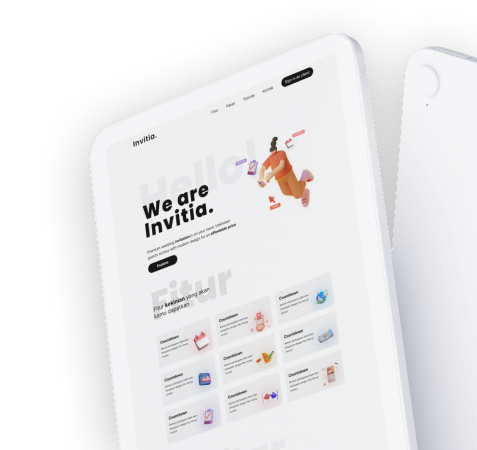
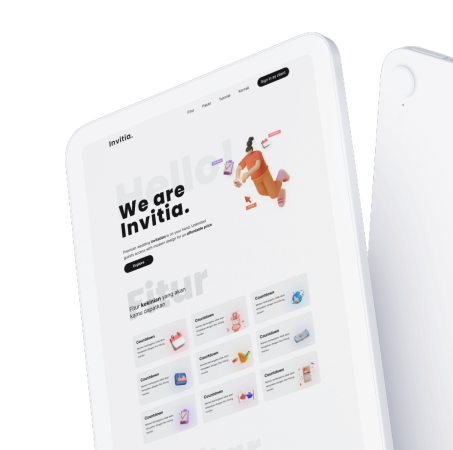
adjusting layouts

diff --git a/components/ui/CardProgress.js b/components/ui/CardProgress.js
@@ -17,14 +17,14 @@ const CardProgress = ({ item }) => {
       onMouseOver={onHoverHandler}
       onMouseLeave={onMouseLeaveHandler}
       className={`${
-        isHover ? "bg-orange-sol" : "bg-scnd-blue"
+        isHover ? "bg-orange-sol" : "bg-dark-blue"
       } mb-6 grid grid-cols-5 md:grid-cols-2 lg:grid-cols-5 items-center h-[100px] md:h-[125px] lg:h-[150px] overflow-hidden rounded-xl transition duration-300`}
     >
       <div className="px-6 col-span-3 md:col-span-1 lg:col-span-3">
         {item.num && <h2 className="font-extrabold ">{item.num}</h2>}
         <h3
           className={`leading-5 ${
-            isHover && "scale-105"
+            isHover && "scale-105 "
           } transition duration-300 origin-left`}
         >
           {item.text}
@@ -38,7 +38,7 @@ const CardProgress = ({ item }) => {
             width={item.desktop.width}
             height={item.desktop.height}
             className={`h-full w-full ${
-              isHover && "scale-110"
+              isHover && "scale-110 translate-y-5"
             } origin-bottom-right transition duration-300`}
           />
         </div>
@@ -49,7 +49,7 @@ const CardProgress = ({ item }) => {
             width={item.mobile.width}
             height={item.mobile.height}
             className={`h-full w-full ${
-              isHover && "scale-110"
+              isHover && "scale-110 translate-y-5"
             } origin-bottom-right transition duration-300`}
           />
         </div>

diff --git a/components/ui/Card.js b/components/ui/Card.js
@@ -36,14 +36,14 @@ const Card = ({ item, onOpenModal, onChangeContent }) => {
         </h3>
       </div>
       <div className="relative col-span-2 md:col-span-1 lg:col-span-2 h-full w-full">
-        <div className="hidden lg:block absolute bottom-0 right-0 w-full aspect-auto">
+        <div className="hidden lg:block absolute bottom-0 right-0 h-full aspect-[453/450]">
           <Image
             src={item.desktop.img}
             alt={item.text}
             width={item.desktop.width}
             height={item.desktop.height}
             className={`h-full w-full ${
-              isHover && "scale-110"
+              isHover && "scale-110 translate-y-5"
             } origin-bottom-right transition duration-300`}
           />
         </div>
@@ -54,7 +54,7 @@ const Card = ({ item, onOpenModal, onChangeContent }) => {
             width={item.mobile.width}
             height={item.mobile.height}
             className={`h-full w-full ${
-              isHover && "scale-110"
+              isHover && "scale-110 translate-y-3"
             } origin-bottom-right transition duration-300`}
           />
         </div>

diff --git a/components/copywriting/service-copy.js b/components/copywriting/service-copy.js
@@ -4,7 +4,7 @@ export const servicesCopy = [
     text: "Website Services",
     desktop: {
       img: "/images/service1-desktop.png",
-      width: "477",
+      width: "453",
       height: "450",
     },
     mobile: {
@@ -18,8 +18,8 @@ export const servicesCopy = [
     text: "Mobile App Services",
     desktop: {
       img: "/images/service2-desktop.png",
-      width: "384",
-      height: "384",
+      width: "453",
+      height: "450",
     },
     mobile: {
       img: "/images/service2-mobile.png",
@@ -33,7 +33,7 @@ export const servicesCopy = [
     desktop: {
       img: "/images/service3-desktop.png",
       width: "453",
-      height: "393",
+      height: "450",
     },
     mobile: {
       img: "/images/service3-mobile.png",

diff --git a/components/services/ServiceModalMobile.js b/components/services/ServiceModalMobile.js
@@ -8,12 +8,12 @@ const ServiceModalMobile = ({ onClose, content }) => {
       <div className="relative bg-orange-sol">
         <CloseIcon
           size="2em"
-          bgColor="#16263B"
+          bgColor="#E56137"
           onClick={onClose}
           className="absolute top-8 right-6"
         />
         <div className="flex flex-col justify-center items-center py-4">
-          <div className="block w-[20%] h-[3px] bg-white mb-4" />
+          <div className="block w-[10%] h-[3px] bg-white mb-4 rounded-full" />
           <h3 className="heading col-span-8 flex justify-center mb-2">
             {content.title}
           </h3>

diff --git a/components/footer/Footer.js b/components/footer/Footer.js
@@ -6,7 +6,7 @@ const Footer = () => {
       id="footer"
       className="bg-scnd-blue px-4 md:px-12 lg:px-24 overflow-hidden"
     >
-      <div className="w-full sm:max-w-[640px] md:max-w-[768px] lg:max-w-[1024px] xl:max-w-[1280px] mx-auto grid grid-cols-2">
+      <div className="w-full lg:px-20 sm:max-w-[640px] md:max-w-[768px] lg:max-w-[1024px] xl:max-w-[1280px] mx-auto grid grid-cols-2">
         <div className="flex flex-col gap-4 py-12">
           <h3 className="text-2xl lg:text-3xl font-bold">
             Anything we can help with?

diff --git a/components/services/Services.js b/components/services/Services.js
@@ -1,4 +1,4 @@
-import { useEffect, useState } from "react";
+import { useState } from "react";
 
 import Card from "../ui/Card";
 import ServiceModal from "./ServiceModal";
@@ -45,7 +45,7 @@ const Services = () => {
           We are accelerating your digital needs
         </p>
       </div>
-      <div className="grid grid-cols-1 lg:grid-cols-3 gap-4">
+      <div className="grid grid-cols-1 lg:grid-cols-3 gap-0 lg:gap-6">
         {servicesCopy.map((item, index) => (
           <Card
             onOpenModal={openModalHandler}

diff --git a/components/workflow/Workflow.js b/components/workflow/Workflow.js
@@ -55,7 +55,7 @@ const Workflow = () => {
           We are working in an Agile/Scrum development process
         </p>
       </div>
-      <div className="grid grid-cols-1 lg:grid-cols-3 gap-4">
+      <div className="grid grid-cols-1 lg:grid-cols-3 gap-0 lg:gap-4">
         {workflowCopy.map((item, index) => (
           <CardProgress item={item} key={index} />
         ))}

diff --git a/components/services/ServiceOverlay.js b/components/services/ServiceOverlay.js
@@ -25,7 +25,7 @@ const ModalOverlay = (props) => {
   return (
     <div
       ref={modalRef}
-      className={`fixed bottom-0 lg:top-0 lg:right-1/2 lg:translate-x-1/2 lg:translate-y-14 z-50 select-none`}
+      className={`fixed bottom-0 lg:top-0 lg:right-1/2 lg:translate-x-1/2 lg:translate-y-[5vh] z-50 select-none`}
     >
       <div>{props.children}</div>
     </div>

diff --git a/components/services/ServiceModal.js b/components/services/ServiceModal.js
@@ -1,4 +1,3 @@
-import { useEffect, useState } from "react";
 import ServiceOverlay from "./ServiceOverlay";
 import ServiceModalMobile from "./ServiceModalMobile";
 import { servicesDetailCopy } from "../copywriting/service-copy";
